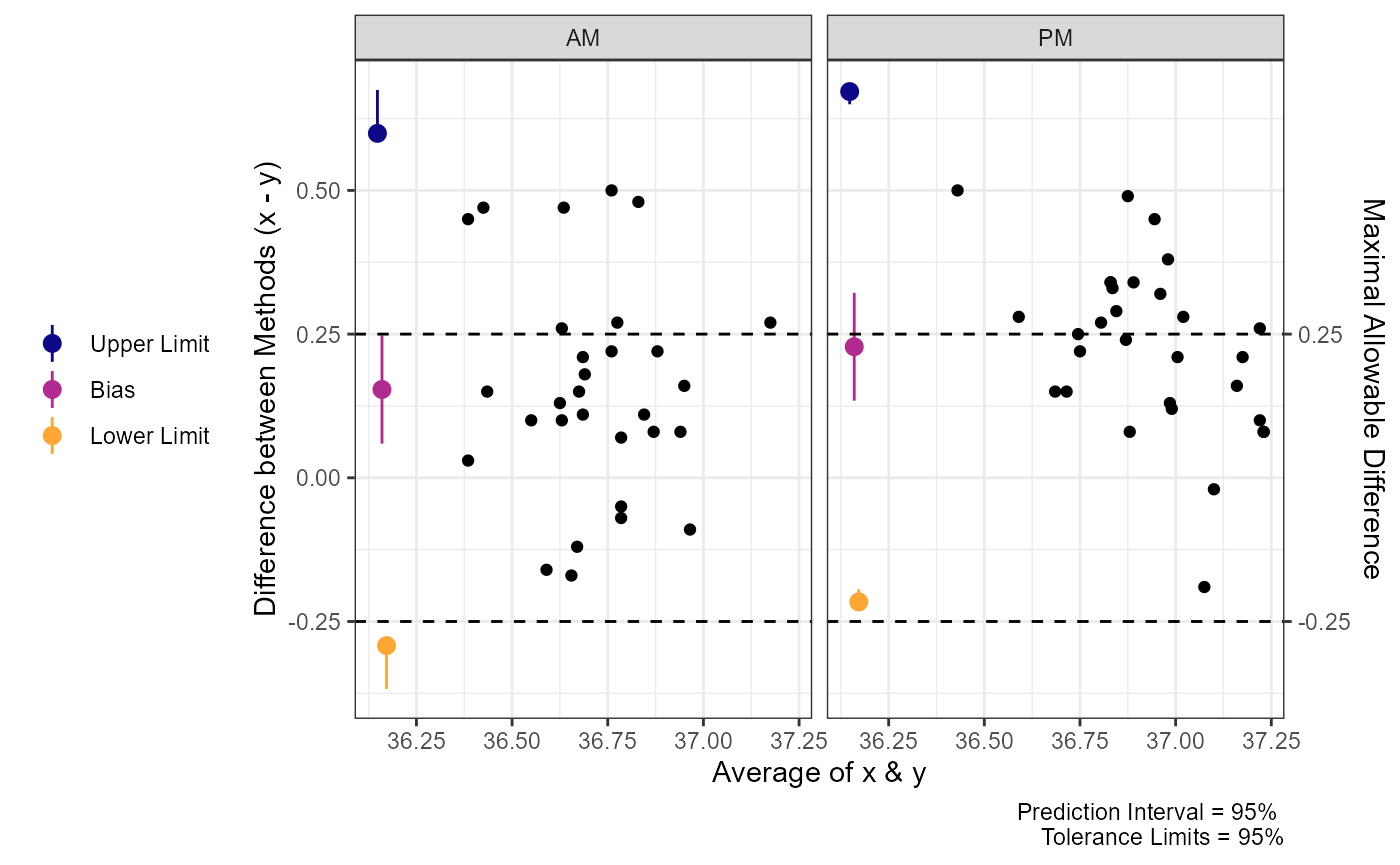
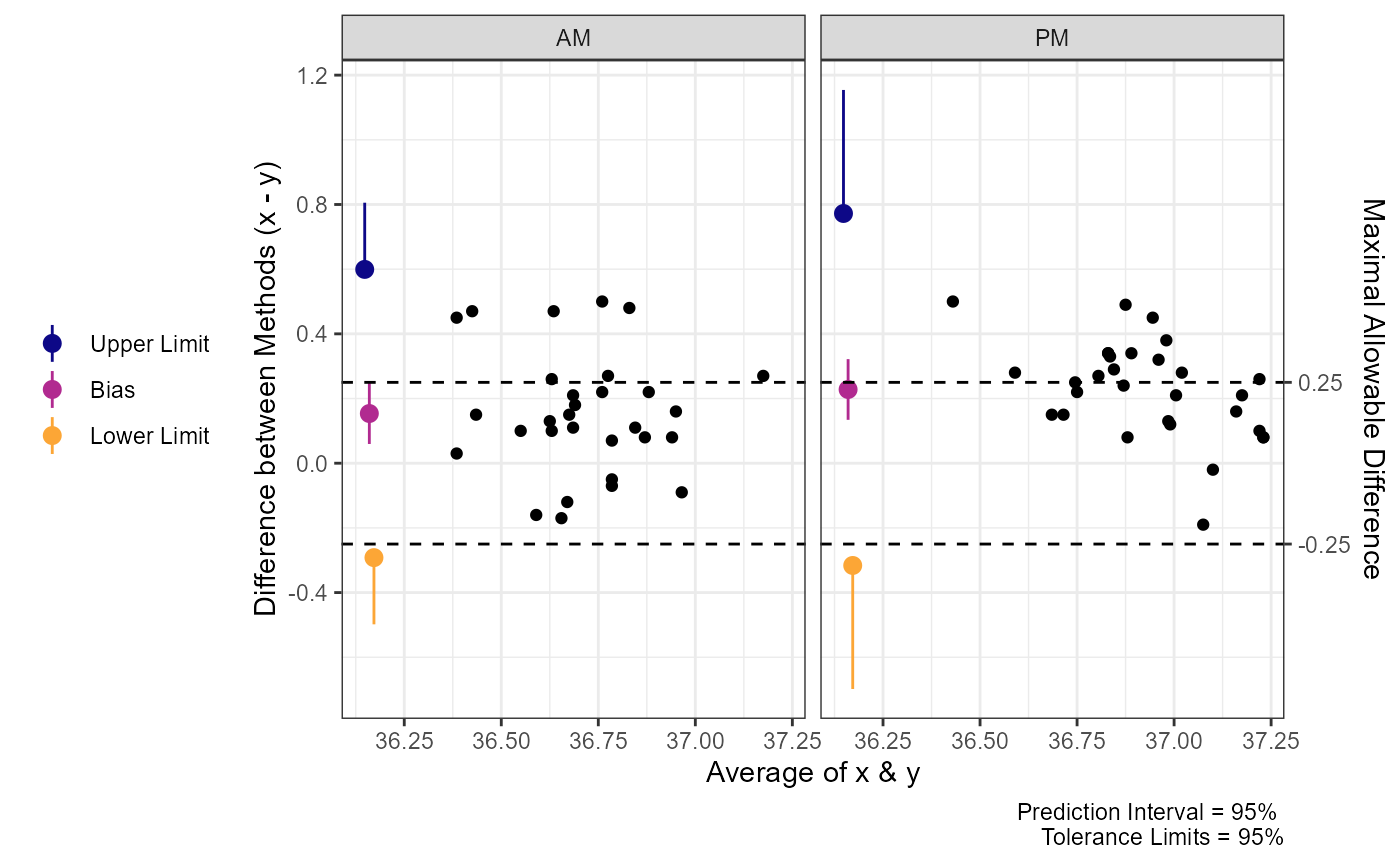
Fixes to equations

diff --git a/docs/articles/agreement_analysis.html b/docs/articles/agreement_analysis.html
@@ -83,7 +83,7 @@
                         <h4 data-toc-skip class="author">Aaron R.
 Caldwell</h4>
             
-            <h4 data-toc-skip class="date">Last Updated: 2026-09-24</h4>
+            <h4 data-toc-skip class="date">Last Updated: 2026-10-01</h4>
       
       <small class="dont-index">Source: <a href="https://github.com/arcaldwell49/SimplyAgree/blob/HEAD/vignettes/agreement_analysis.Rmd" class="external-link"><code>vignettes/agreement_analysis.Rmd</code></a></small>
       <div class="d-none name"><code>agreement_analysis.Rmd</code></div>
@@ -364,13 +364,11 @@ correlation.</p>
 <span>  cor_type <span class="op">=</span> <span class="st">"sym"</span> <span class="co"># Set correlation structure as Compound Symmetry</span></span>
 <span><span class="op">)</span></span>
 <span><span class="co">#&gt; Agreement between Measures (Difference: x-y)</span></span>
-<span><span class="co">#&gt; 95% CI for Bias; 95% Prediction Interval</span></span>
-<span><span class="co">#&gt; Tolerance Limits: at least 95% of differences with 95% confidence</span></span>
-<span><span class="co">#&gt; Model: GLS, compound symmetry within id; residual SD by condition</span></span>
+<span><span class="co">#&gt; 95% Prediction Interval with 95% Tolerance Limits</span></span>
 <span><span class="co">#&gt; </span></span>
 <span><span class="co">#&gt;  Condition   Bias          Bias CI Prediction Interval  Tolerance Limits</span></span>
-<span><span class="co">#&gt;         AM 0.1537 [0.0595, 0.2478]   [-0.2919, 0.5993] [-0.3674, 0.6748]</span></span>
-<span><span class="co">#&gt;         PM 0.2280 [0.1342, 0.3218]     [-0.216, 0.672] [-0.1938, 0.6498]</span></span></code></pre></div>
+<span><span class="co">#&gt;         AM 0.1537 [0.0595, 0.2478]   [-0.2919, 0.5993] [-0.4982, 0.8055]</span></span>
+<span><span class="co">#&gt;         PM 0.2280 [0.1342, 0.3218]   [-0.3162, 0.7722] [-0.6982, 1.1542]</span></span></code></pre></div>
 <div class="section level3">
 <h3 id="calculative-approach">Calculative Approach<a class="anchor" aria-label="anchor" href="#calculative-approach"></a>
 </h3>
@@ -448,7 +446,7 @@ directly.</li>
 <p>With <code>model = "gls"</code> (default), the differences follow a
 marginal generalized least squares model (<code><a href="https://rdrr.io/pkg/nlme/man/gls.html" class="external-link">nlme::gls()</a></code>):</p>
 <p><span class="math display">\[
-d_{ij} = \mathbf{x}_{ij}^\top \boldsymbol{\beta} + e_{ij}, \qquad
+d_{ij} = \mathbf{x}_{ij}^\top \beta + e_{ij}, \qquad
 \text{Var}(e_{ij}) = \sigma^2 g_{ij}^2, \qquad
 \text{Cor}(e_{ij}, e_{ij'}) = R_{i, jj'}
 \]</span></p>
@@ -463,8 +461,7 @@ mixed model (<code><a href="https://rdrr.io/pkg/nlme/man/lme.html" class="extern
 subject and, optionally, for each setting (inner level) within
 subject:</p>
 <p><span class="math display">\[
-d_{ijk} = \mathbf{x}_{ijk}^\top \boldsymbol{\beta} + u_i + v_{ij} +
-e_{ijk}, \qquad
+d_{ijk} = \mathbf{x}_{ijk}^\top \\beta + u_i + v_{ij} + e_{ijk}, \qquad
 u_i \sim N(0, \sigma_1^2), \quad v_{ij} \sim N(0, \sigma_2^2), \quad
 \text{Var}(e_{ijk}) = \sigma^2 g_{ijk}^2
 \]</span></p>
@@ -474,7 +471,7 @@ residuals only, and <code>cor_type = "ar1"</code> or <code>"car1"</code>
 adds serial correlation of the residuals within the innermost level. The
 variance of a single difference for a given row is</p>
 <p><span class="math display">\[
-S^2 = \hat\sigma_1^2 + \hat\sigma_2^2 + \hat\sigma^2 g^2 .
+S^2 = \hat\sigma_1^2 + \hat\sigma_2^2 + \hat\sigma^2 g^2
 \]</span></p>
 <p>The output reports the components as <code>SD.between</code> (<span class="math inline">\(\hat\sigma_1\)</span>), <code>SD.nested</code>
 (<span class="math inline">\(\hat\sigma_2\)</span>), and
@@ -514,7 +511,7 @@ SEP = \sqrt{SEM^2 + S^2}
 \]</span></p>
 <p>and the prediction interval is</p>
 <p><span class="math display">\[
-PI = b \pm t_{1-\alpha_1/2,\, df_b} \cdot SEP .
+PI = b \pm t_{1-\alpha_1/2,\, df_b} \cdot SEP
 \]</span></p>
 <p>This is a “beta-expectation” tolerance interval: on average over
 repeated studies, it contains a proportion <span class="math inline">\(\beta\)</span> of the differences. It is not a
@@ -540,7 +537,7 @@ nested limits of agreement further below.</p>
 (<span class="math inline">\(N - p\)</span> without a variance
 function),</p>
 <p><span class="math display">\[
-S_U = S \sqrt{\frac{\nu}{\chi^2_{\alpha_2, \nu}}} .
+S_U = S \sqrt{\frac{\nu}{\chi^2_{\alpha_2, \nu}}}
 \]</span></p>
 <p><strong>Variance components</strong> (<code>gls</code> with compound
 symmetry, or <code>lme</code>): write <span class="math inline">\(S^2 =
@@ -549,7 +546,7 @@ is estimated with <span class="math inline">\(\nu_j\)</span> degrees of
 freedom. Then</p>
 <p><span class="math display">\[
 S_U^2 = S^2 + \sqrt{\sum_j \left[ a_j \left(
-\frac{\nu_j}{\chi^2_{\alpha_2, \nu_j}} - 1 \right) \right]^2 } .
+\frac{\nu_j}{\chi^2_{\alpha_2, \nu_j}} - 1 \right) \right]^2 }
 \]</span></p>
 <p>Pieces with zero degrees of freedom are dropped. The pieces are the
 balanced nested analysis of variance decomposition of <span class="math inline">\(S^2\)</span> into the variance of a subject mean
@@ -646,7 +643,7 @@ that were too narrow: about 93% coverage for a 95% target.)</p>
 AR(1), continuous AR(1), or a user-specified structure): <span class="math inline">\(S_U = S \sqrt{\nu / \chi^2_{\alpha_2,
 \nu}}\)</span> with an effective degrees of freedom</p>
 <p><span class="math display">\[
-\nu = \frac{2 S^4}{\widehat{\text{Var}}(S^2)},
+\nu = \frac{2 \cdot S^4}{\widehat{\text{Var}}(S^2)}
 \]</span></p>
 <p>where <span class="math inline">\(\widehat{\text{Var}}(S^2)\)</span>
 comes from the delta method applied to the approximate covariance matrix
@@ -670,7 +667,7 @@ limits.</p>
 tolerance interval: with confidence <span class="math inline">\(\gamma\)</span>, at least a proportion <span class="math inline">\(\beta\)</span> of all differences lie within the
 limits. They use the approximation of <span class="citation">Howe (<a href="#ref-howe1969">1969</a>)</span>, as described by <span class="citation">Francq et al. (<a href="#ref-francq2020tolerate">2020</a>)</span>:</p>
 <p><span class="math display">\[
-TI = b \pm z \cdot SEP \cdot \frac{S_U}{S} .
+TI = b \pm z \cdot SEP \cdot \frac{S_U}{S}
 \]</span></p>
 <p>For independent data with only an intercept, <span class="math inline">\(SEP = S \sqrt{1 + 1/n}\)</span> and <span class="math inline">\(S_U / S = \sqrt{(n-1)/\chi^2_{\alpha_2,
 n-1}}\)</span>, and this is exactly Howe’s tolerance factor. If the
@@ -696,7 +693,7 @@ The two bounds hold together only about <span class="math inline">\(1 -
 <p><strong>Independent data</strong> (<code>gls</code> without a
 correlation structure): the bounds are exact, from the noncentral <span class="math inline">\(t\)</span> distribution,</p>
 <p><span class="math display">\[
-b \mp t'_{\gamma,\, \nu}\!\left(\frac{zS}{SEM}\right) SEM ,
+b \mp t'_{\gamma,\, \nu}\!\left(\frac{zS}{SEM}\right) SEM
 \]</span></p>
 <p>where <span class="math inline">\(t'_{\gamma,
 \nu}(\lambda)\)</span> is the <span class="math inline">\(\gamma\)</span> quantile of a noncentral <span class="math inline">\(t\)</span> distribution with <span class="math inline">\(\nu\)</span> degrees of freedom and noncentrality
@@ -706,10 +703,11 @@ unreliable, the MOVER bound below is used.)</p>
 <p><strong>Otherwise</strong>, the MOVER bound <span class="citation">(<a href="#ref-zou2011">Zou 2011</a>)</span> combines
 the one-sided bounds for the bias and for <span class="math inline">\(S\)</span>:</p>
 <p><span class="math display">\[
-L = (b - zS) - \sqrt{\left(t_{\gamma,\, df_b}\, SEM\right)^2 + z^2
-\left(S_U - S\right)^2}, \qquad
-U = (b + zS) + \sqrt{\left(t_{\gamma,\, df_b}\, SEM\right)^2 + z^2
-\left(S_U - S\right)^2} .
+H = \sqrt{\left(t_{\gamma,\, df_b}\, SEM\right)^2 + z^2 \left(S_U -
+S\right)^2}
+\]</span></p>
+<p><span class="math display">\[
+L = (b - zS) - H, \qquad U = (b + zS) + H
 \]</span></p>
 </div>
 <div class="section level4">
@@ -723,7 +721,7 @@ limits <span class="citation">(<a href="#ref-loh1987">Loh 1987</a>; <a href="#re
 <strong>Simulate</strong> <span class="math inline">\(B\)</span>
 (<code>replicates</code>) new data sets from the fitted model, using the
 point estimates: <span class="math inline">\(\mathbf{d}^* =
-\mathbf{X}\hat{\boldsymbol\beta} + \mathbf{e}^*\)</span>, where <span class="math inline">\(\mathbf{e}^*\)</span> has the fitted marginal
+\mathbf{X}\hat{\beta} + \mathbf{e}^*\)</span>, where <span class="math inline">\(\mathbf{e}^*\)</span> has the fitted marginal
 covariance. For subject <span class="math inline">\(i\)</span> this is
 <span class="math inline">\(D_i R_i D_i\)</span> for <code>gls</code>
 and <span class="math inline">\(\hat\sigma_1^2 J + \hat\sigma_2^2 B_i +
@@ -1018,13 +1016,11 @@ controlling for time of day (<code>tod</code>).</p>
 <span></span>
 <span><span class="va">test1</span></span>
 <span><span class="co">#&gt; Agreement between Measures (Difference: x-y)</span></span>
-<span><span class="co">#&gt; 95% CI for Bias; 95% Prediction Interval</span></span>
-<span><span class="co">#&gt; Tolerance Limits: at least 95% of differences with 95% confidence</span></span>
-<span><span class="co">#&gt; Model: GLS, compound symmetry within id; residual SD by condition</span></span>
+<span><span class="co">#&gt; 95% Prediction Interval with 95% Tolerance Limits</span></span>
 <span><span class="co">#&gt; </span></span>
 <span><span class="co">#&gt;  Condition    Bias            Bias CI Prediction Interval  Tolerance Limits</span></span>
-<span><span class="co">#&gt;         AM -0.1537 [-0.2478, -0.0595]   [-0.5993, 0.2919] [-0.6748, 0.3674]</span></span>
-<span><span class="co">#&gt;         PM -0.2280 [-0.3218, -0.1342]     [-0.672, 0.216] [-0.6498, 0.1938]</span></span></code></pre></div>
+<span><span class="co">#&gt;         AM -0.1537 [-0.2478, -0.0595]   [-0.5993, 0.2919] [-0.8055, 0.4982]</span></span>
+<span><span class="co">#&gt;         PM -0.2280 [-0.3218, -0.1342]   [-0.7722, 0.3162] [-1.1542, 0.6982]</span></span></code></pre></div>
 </div>
 </div>
 <div class="section level2">
@@ -1104,8 +1100,6 @@ subject/participant that is uncorrelated with other pairs.</p>
 <span><span class="co">#&gt;    Bias           Bias CI Lower LoA Upper LoA            LoA CI</span></span>
 <span><span class="co">#&gt;  0.4383 [-0.1669, 1.0436]    -1.947     2.824 [-3.0117, 3.8884]</span></span>
 <span><span class="co">#&gt; </span></span>
-<span><span class="co">#&gt; LoA CI: one-sided 95% bounds (outer ends of 90% CIs) for an intersection-union test against a maximal allowable difference;</span></span>
-<span><span class="co">#&gt;   not a joint 95% interval for the LoA</span></span>
 <span><span class="co">#&gt; SD of Differences = 1.217</span></span></code></pre></div>
 <div class="section level4">
 <h4 id="calculation-steps">Calculation Steps<a class="anchor" aria-label="anchor" href="#calculation-steps"></a>
@@ -1194,8 +1188,6 @@ identifier (<code>id</code>) must also be provided.</p>
 <span><span class="co">#&gt;    Bias           Bias CI Lower LoA Upper LoA           LoA CI</span></span>
 <span><span class="co">#&gt;  0.7152 [-1.5287, 2.9591]    -1.212     2.642 [-4.797, 6.2274]</span></span>
 <span><span class="co">#&gt; </span></span>
-<span><span class="co">#&gt; LoA CI: one-sided 95% bounds (outer ends of 90% CIs) for an intersection-union test against a maximal allowable difference;</span></span>
-<span><span class="co">#&gt;   not a joint 95% interval for the LoA</span></span>
 <span><span class="co">#&gt; SD of Differences = 1.5036</span></span></code></pre></div>
 <div class="section level4">
 <h4 id="calculative-steps">Calculative Steps<a class="anchor" aria-label="anchor" href="#calculative-steps"></a>
@@ -1252,12 +1244,19 @@ s_d^2 = s^2_b + \left(1 - \frac{1}{m_{xh}}\right) s_{xw}^2 + \left(1 -
 </ol>
 <p><strong>MOVER Method</strong></p>
 <p><span class="math display">\[
-u = s_d^2 + \sqrt{\left[s_b^2 \left(\frac{n-1}{\chi^2_{\alpha, n-1}} -
+u_1 = \left[s_b^2 \left(\frac{n-1}{\chi^2_{\alpha, n-1}} -
 1\right)\right]^2
-+ \left[\left(1-\frac{1}{m_{xh}}\right) s_{xw}^2
+\]</span></p>
+<p><span class="math display">\[
+u_2 = \left[\left(1-\frac{1}{m_{xh}}\right) s_{xw}^2
 \left(\frac{N_x-n}{\chi^2_{\alpha, N_x-n}} - 1\right)\right]^2
-+ \left[\left(1-\frac{1}{m_{yh}}\right) s_{yw}^2
-\left(\frac{N_y-n}{\chi^2_{\alpha, N_y-n}} - 1\right)\right]^2}
+\]</span></p>
+<p><span class="math display">\[
+u_3 = \left[\left(1-\frac{1}{m_{yh}}\right) s_{yw}^2
+\left(\frac{N_y-n}{\chi^2_{\alpha, N_y-n}} - 1\right)\right]^2
+\]</span></p>
+<p><span class="math display">\[
+u = s_d^2 + \sqrt{u_1 + u_2 + u_3}
 \]</span></p>
 <p><span class="math display">\[
 LME = \sqrt{\frac{z_{1-\alpha}^2 \cdot s_b^2}{n} + z_A^2 \cdot
@@ -1321,8 +1320,6 @@ provide estimates that are very close to those described by <span class="citatio
 <span><span class="co">#&gt;    Bias           Bias CI Lower LoA Upper LoA            LoA CI</span></span>
 <span><span class="co">#&gt;  0.7046 [-1.5572, 2.9664]    -2.153     3.562 [-7.4979, 8.9071]</span></span>
 <span><span class="co">#&gt; </span></span>
-<span><span class="co">#&gt; LoA CI: one-sided 95% bounds (outer ends of 90% CIs) for an intersection-union test against a maximal allowable difference;</span></span>
-<span><span class="co">#&gt;   not a joint 95% interval for the LoA</span></span>
 <span><span class="co">#&gt; SD of Differences = 1.4581</span></span></code></pre></div>
 <div class="section level4">
 <h4 id="calculation-steps-1">Calculation Steps<a class="anchor" aria-label="anchor" href="#calculation-steps-1"></a>
@@ -1482,9 +1479,7 @@ data should always be inspected.</p>
 <span>                           prop_bias <span class="op">=</span> <span class="cn">TRUE</span><span class="op">)</span></span>
 <span><span class="fu"><a href="https://rdrr.io/r/base/print.html" class="external-link">print</a></span><span class="op">(</span><span class="va">test_tol</span><span class="op">)</span></span>
 <span><span class="co">#&gt; Agreement between Measures (Difference: x-y)</span></span>
-<span><span class="co">#&gt; 95% CI for Bias; 95% Prediction Interval</span></span>
-<span><span class="co">#&gt; Tolerance Limits: at least 95% of differences with 95% confidence</span></span>
-<span><span class="co">#&gt; Model: GLS, independent differences</span></span>
+<span><span class="co">#&gt; 95% Prediction Interval with 95% Tolerance Limits</span></span>
 <span><span class="co">#&gt; </span></span>
 <span><span class="co">#&gt;  Average of Both Methods    Bias           Bias CI Prediction Interval</span></span>
 <span><span class="co">#&gt;                    3.905 -0.4670 [-1.3842, 0.4502]   [-2.8876, 1.9537]</span></span>
@@ -1524,13 +1519,11 @@ argument.</p>
 <span>  cor_type <span class="op">=</span> <span class="st">"sym"</span> <span class="co"># Set correlation structure as Compound Symmetry</span></span>
 <span><span class="op">)</span></span>
 <span><span class="co">#&gt; Agreement between Measures (Ratio: x/y)</span></span>
-<span><span class="co">#&gt; 95% CI for Bias; 95% Prediction Interval</span></span>
-<span><span class="co">#&gt; Tolerance Limits: at least 95% of differences with 95% confidence</span></span>
-<span><span class="co">#&gt; Model: GLS, compound symmetry within id; residual SD by condition</span></span>
+<span><span class="co">#&gt; 95% Prediction Interval with 95% Tolerance Limits</span></span>
 <span><span class="co">#&gt; </span></span>
 <span><span class="co">#&gt;  Condition  Bias          Bias CI Prediction Interval Tolerance Limits</span></span>
-<span><span class="co">#&gt;         AM 1.004 [1.0016, 1.0068]    [0.9921, 1.0165]   [0.99, 1.0186]</span></span>
-<span><span class="co">#&gt;         PM 1.006 [1.0036, 1.0088]    [0.9941, 1.0185] [0.9947, 1.0178]</span></span></code></pre></div>
+<span><span class="co">#&gt;         AM 1.004 [1.0016, 1.0068]    [0.9921, 1.0165] [0.9865, 1.0222]</span></span>
+<span><span class="co">#&gt;         PM 1.006 [1.0036, 1.0088]    [0.9913, 1.0213]  [0.981, 1.0321]</span></span></code></pre></div>
 <p>If you prefer to interpret the differences as a percentage
 difference, you can do this by setting the <code>log_tf_display</code>
 argument to “sympercent”. This stands for the “symmetric percentage
@@ -1550,13 +1543,11 @@ difference between the two paired measures.</p>
 <span>  cor_type <span class="op">=</span> <span class="st">"sym"</span> <span class="co"># Set correlation structure as Compound Symmetry</span></span>
 <span><span class="op">)</span></span>
 <span><span class="co">#&gt; Sympercent Difference between Methods (s%)</span></span>
-<span><span class="co">#&gt; 95% CI for Bias; 95% Prediction Interval</span></span>
-<span><span class="co">#&gt; Tolerance Limits: at least 95% of differences with 95% confidence</span></span>
-<span><span class="co">#&gt; Model: GLS, compound symmetry within id; residual SD by condition</span></span>
+<span><span class="co">#&gt; 95% Prediction Interval with 95% Tolerance Limits</span></span>
 <span><span class="co">#&gt; </span></span>
 <span><span class="co">#&gt;  Condition   Bias          Bias CI Prediction Interval  Tolerance Limits</span></span>
-<span><span class="co">#&gt;         AM 0.4188 [0.1615, 0.6761]   [-0.7959, 1.6335] [-1.0041, 1.8417]</span></span>
-<span><span class="co">#&gt;         PM 0.6184 [0.3622, 0.8747]   [-0.5916, 1.8285] [-0.5288, 1.7656]</span></span></code></pre></div>
+<span><span class="co">#&gt;         AM 0.4188 [0.1615, 0.6761]   [-0.7959, 1.6335] [-1.3562, 2.1938]</span></span>
+<span><span class="co">#&gt;         PM 0.6184 [0.3622, 0.8747]   [-0.8705, 2.1074] [-1.9196, 3.1564]</span></span></code></pre></div>
 </div>
 <div class="section level2">
 <h2 id="visualizing-big-data">Visualizing “Big” Data<a class="anchor" aria-label="anchor" href="#visualizing-big-data"></a>
